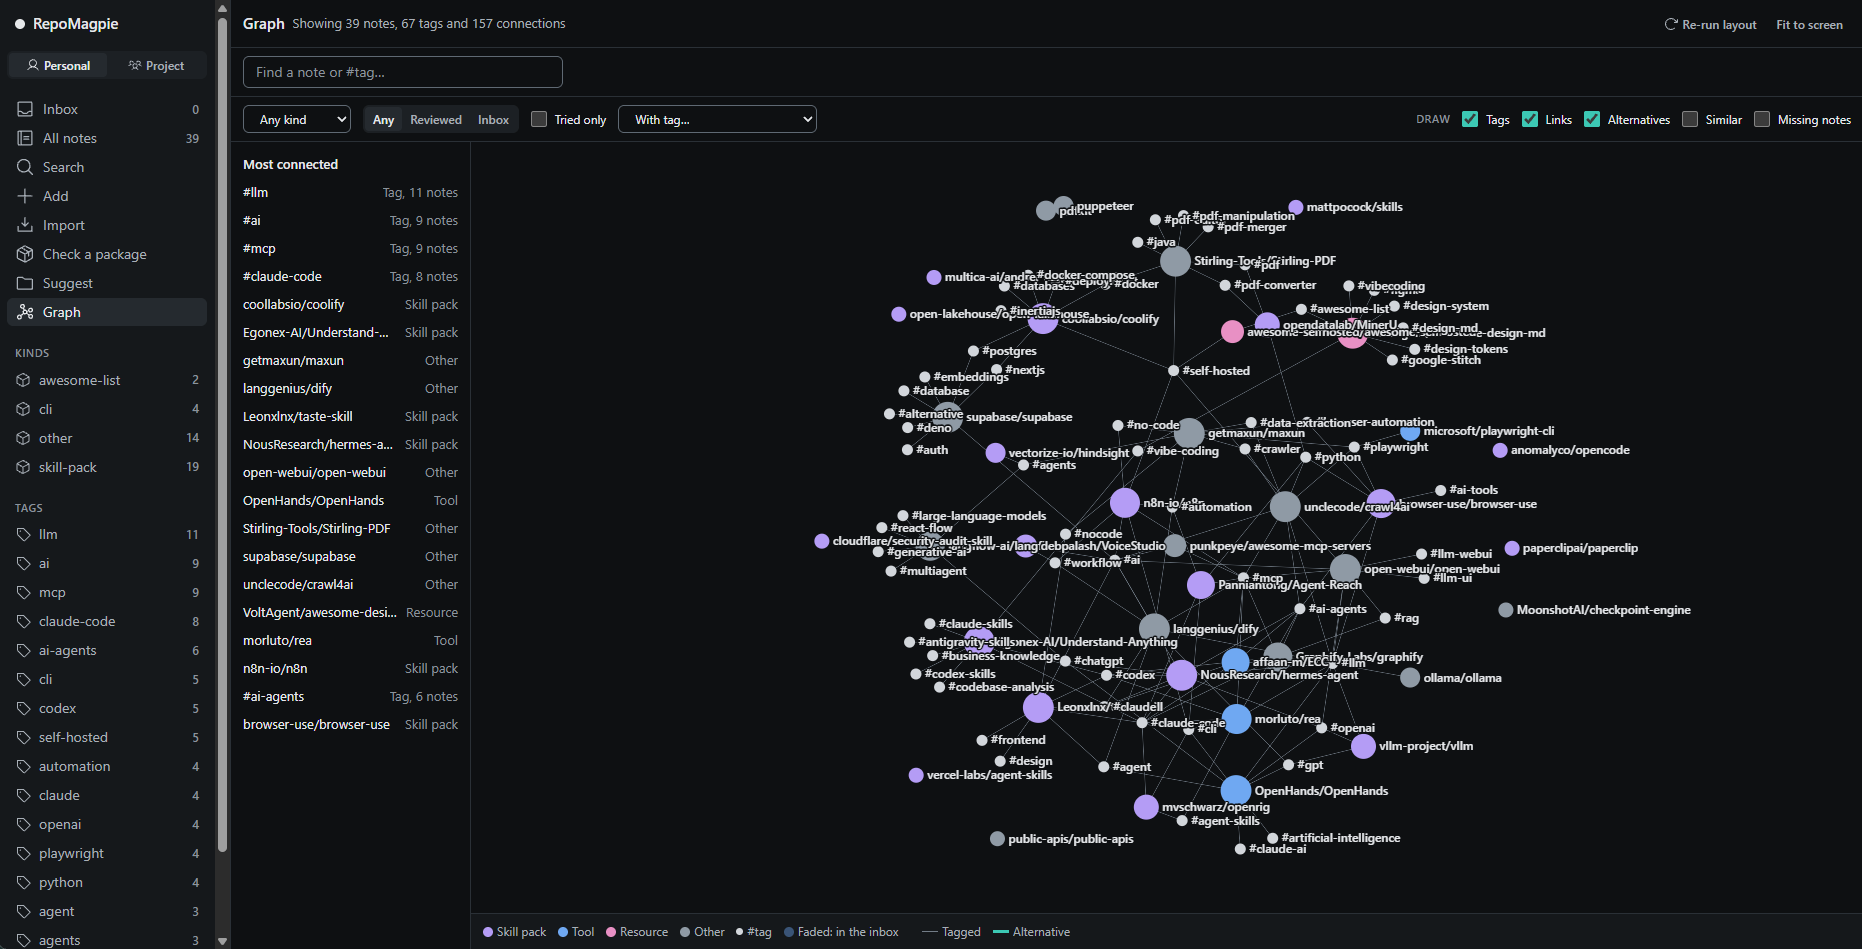
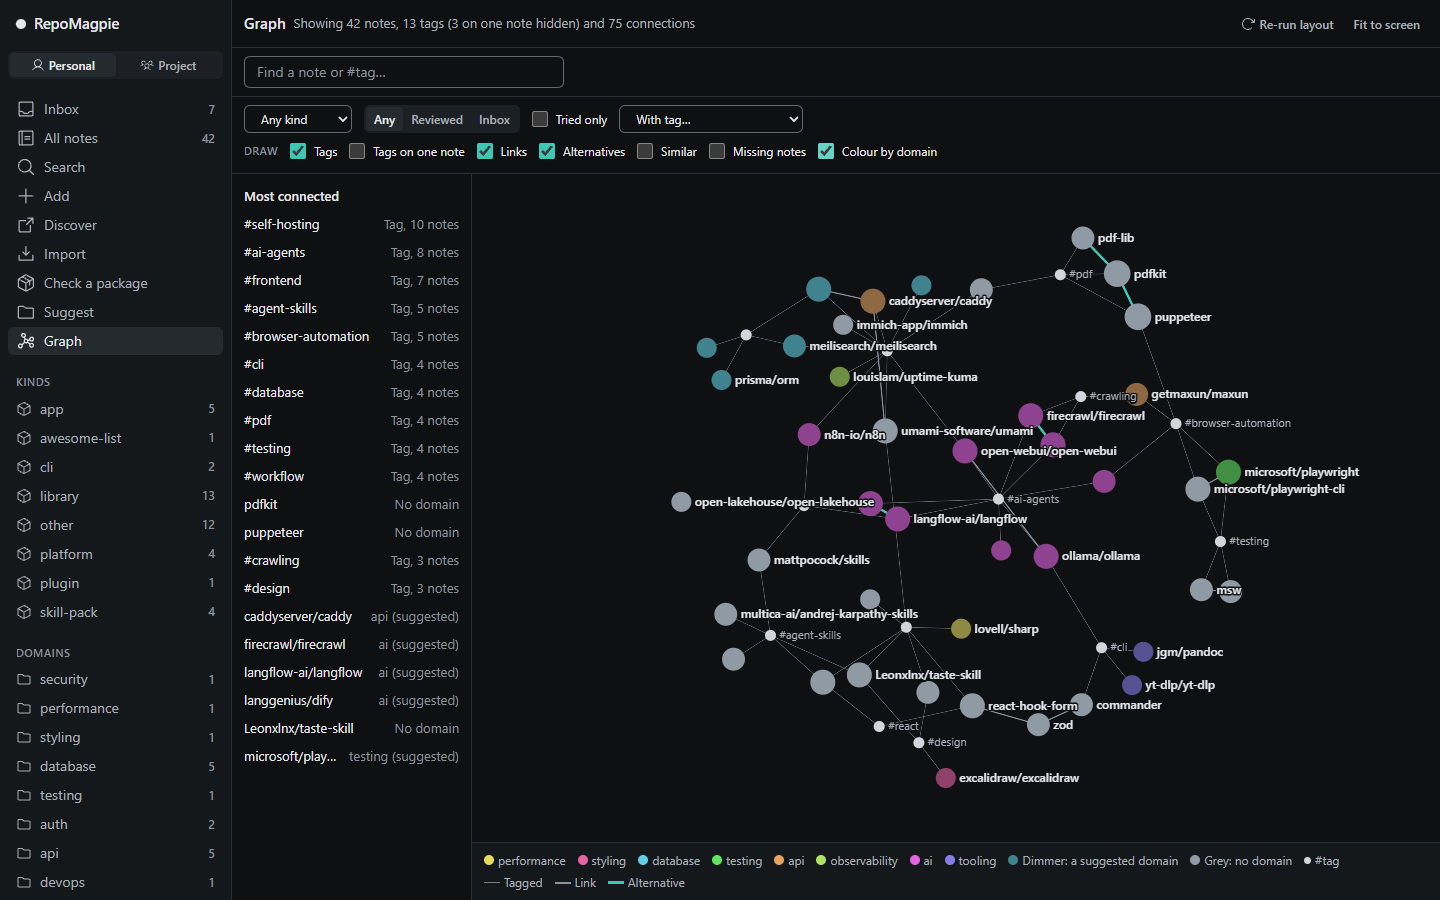
docs: a shorter README and screenshots of today's app

diff --git a/README.md b/README.md
@@ -12,7 +12,7 @@
 
 [![npm version](https://img.shields.io/npm/v/repomagpie?style=flat-square&logo=npm&color=cb3837)](https://www.npmjs.com/package/repomagpie)
 [![MCP server](https://img.shields.io/badge/MCP-server-5c4ee5?style=flat-square&logo=modelcontextprotocol&logoColor=white)](docs/spec.md#repomagpie-mcp)
-[![Node.js 22.12 or later](https://img.shields.io/badge/Node.js-22.12%2B-339933?style=flat-square&logo=nodedotjs&logoColor=white)](#platforms)
+[![Node.js 22.12 or later](https://img.shields.io/badge/Node.js-22.12%2B-339933?style=flat-square&logo=nodedotjs&logoColor=white)](#what-each-agent-gets)
 [![CI status](https://img.shields.io/github/actions/workflow/status/Varshavia/RepoMagpie/ci.yml?branch=main&style=flat-square&label=CI&logo=githubactions&logoColor=white)](https://github.com/Varshavia/RepoMagpie/actions/workflows/ci.yml?query=branch%3Amain)
 [![MIT licence](https://img.shields.io/badge/licence-MIT-f4c430?style=flat-square)](LICENSE)
 
@@ -23,7 +23,7 @@
 
 </div>
 
-Months ago you tried pdfkit and gave up on it. Today your agent is about to install it again, and RepoMagpie asks you first, with your own note:
+Months ago you tried pdfkit and gave up on it. Today your agent is about to install it again, and in Claude Code, RepoMagpie's hook asks you first, with your own note:
 
 ```text
 $ npm install pdfkit
@@ -36,27 +36,25 @@ Alternatives in your personal journal: "puppeteer" (Verdict: "default for PDF re
 Do you want to proceed?
 ```
 
-In Claude Code: RepoMagpie's hook asked first, before the install ran.
-
-- **Remember:** write a verdict in one line, `repomagpie note pdfkit "avoid: async streams painful; use puppeteer"`. Your agent also offers once, at a task's end, to save a dependency decision made in it, with your reason as the Verdict. Notes are Markdown files you own.
+- **Remember:** write a Verdict in one line, `repomagpie note pdfkit "avoid: async streams painful; use puppeteer"`. Your agent also offers, once at a task's end, to save a dependency decision with your reason. Notes are Markdown files you own.
 - **Recall before install:** when your agent runs `npm install pdfkit`, it sees your note first.
-- **Find by concern:** ask about security, database, testing… in any language; your agent maps the question onto domains and finds the notes that fit, even ones that share no word with it.
+- **Find by concern:** ask about security, databases, testing… in any language, and your agent finds the notes that fit, even ones with no word in common.
 - **Suggest:** `repomagpie suggest` reads a project's manifests and README, and lists the notes that fit it.
-- **Discover:** search GitHub by words, concern and kind, see stars, activity and licence, and add the ones you choose to your inbox: `repomagpie discover`, or Discover in the app.
-- **Start from a project:** `repomagpie init --auto` lists its dependencies by what your notes say (avoid, noted, no note), then asks for your Verdict on each one without a note; Enter skips, `q` stops.
+- **Discover:** search GitHub by words, concern and kind, with stars and recent activity, and add the repositories you choose to your inbox: `repomagpie discover`, or the app.
+- **Start from a project:** `repomagpie init --auto` lists a project's dependencies by what your notes say, then asks for your Verdict on each one without a note.
 
 **Status:** pre-release `0.2.0-beta.15`, for early testers. See the [changelog](CHANGELOG.md) and the [roadmap](docs/roadmap.md).
 
 ## Quick start
 
-1. Install the `repomagpie` command and set it up in your coding agents. You need Node.js 22.12 or later. `magpie` works as a short alias when no other `magpie` command is on your `PATH`. <!-- check:commands allow -->
+1. Install the `repomagpie` command and set it up in your coding agents:
 
    ```bash
    npm install -g repomagpie@beta
    repomagpie setup
    ```
 
-   `setup` finds your agents by their command or app (an agent whose folder is all that's left is listed, not chosen), shows what it will change in which file, asks first, and backs up every file it edits; `repomagpie setup --dry-run` only shows the plan. See [agents](docs/agents.md), or [setting up by hand](docs/setup-by-hand.md). In Claude Code, `repomagpie setup --capture-reminder` also adds an opt-in reminder: when a session installed or removed a package you have no note on, the agent is reminded once to offer one.
+   `setup` shows which files it will change, asks first, and backs up each file it edits; `repomagpie setup --dry-run` only shows the plan ([agents](docs/agents.md)).
 
 2. Check what is wired in each agent:
 
@@ -64,18 +62,16 @@ In Claude Code: RepoMagpie's hook asked first, before the install ran.
    repomagpie doctor
    ```
 
-   `doctor` also lists `setup`'s backups. Each is a whole copy of its file, and copies of `~/.claude.json` can hold sign-in tokens and MCP servers' secrets. `repomagpie setup --delete-backups` deletes them after asking; `--keep-latest` keeps the newest of each file.
+   `doctor` also lists `setup`'s backups, which can hold your agents' secrets ([SECURITY.md](SECURITY.md#what-repomagpie-reads-writes-and-sends)); `repomagpie setup --delete-backups` deletes them.
 
-3. Write your first note. Give a package name, or a GitHub URL to also fetch the repository's licence, topics and agent skills:
+3. Write your first note. A GitHub URL also fetches the repository's licence, topics and agent skills, and `--use-when` lets you find the note later by what you need:
 
    ```bash
    repomagpie note pdfkit "avoid: async streams painful; use puppeteer" --type npm
    repomagpie note https://github.com/microsoft/playwright-cli "use for agent browser tests" --use-when "an agent checks a web UI"
    ```
 
-   `--type npm` says the name is an npm package. Inside a project, RepoMagpie reads that from its manifest; elsewhere it asks. `--use-when` lets you find the note later by what you need, not only by name. For notes you already have, `repomagpie domains --suggest --dry-run` shows suggested domains (drop `--dry-run` to write them, for you to confirm), and `repomagpie tags --merge postgres postgresql` merges two spellings of a tag.
-
-   Without a token, GitHub allows 60 requests an hour. If you use the [GitHub CLI](https://cli.github.com/), give RepoMagpie its token for the current shell to raise the limit: `export GITHUB_TOKEN=$(gh auth token)`, or in PowerShell `$env:GITHUB_TOKEN = gh auth token`.
+   GitHub allows 60 requests an hour without a token. To raise the limit: `export GITHUB_TOKEN=$(gh auth token)`, or in PowerShell `$env:GITHUB_TOKEN = gh auth token`.
 
 > [!IMPORTANT]
 > RepoMagpie comes only from [this repository](https://github.com/Varshavia/RepoMagpie), the npm package [`repomagpie`](https://www.npmjs.com/package/repomagpie) and the agent skill on [skills.sh](https://skills.sh/varshavia/repomagpie). There are no installers, no `.exe` or other downloads, no other packages and no other website: anything else that calls itself RepoMagpie is not ours ([SECURITY.md](SECURITY.md#official-channels)).
@@ -84,20 +80,20 @@ In Claude Code: RepoMagpie's hook asked first, before the install ran.
 
 ![How RepoMagpie works: your agent is about to run npm install pdfkit; the skill or the MCP tool recall checks first, and the hook checks the install command as a backstop; both read your personal journal in ~/.magpie and the project journal in .magpie/; your Verdict, "avoid: async streams painful; use puppeteer", comes back, and your agent asks you before the install.](docs/assets/how-it-works.svg)
 
-Before an install, the skill tells your agent to look the package up with the MCP server's `recall` tool, or the `repomagpie recall` command. RepoMagpie reads both journals on your machine and returns your notes; when one says to avoid the package, your agent shows it to you and asks first. The hook checks the install command itself, in case the agent skips that step.
+Before an install, the skill tells your agent to call `recall`, the MCP tool or the `repomagpie recall` command. When a note says to avoid the package, your agent shows it to you and asks first. The hook checks the install command itself, in case the agent skips that step.
 
-There is no extra model, no API key and no telemetry. RepoMagpie works through the agent you already use, so it works as well as that agent follows the skill: without a hook, that goes for the check before an install too.
+There is no extra model, no API key and no telemetry. RepoMagpie works as well as your agent follows the skill; without a hook, that includes the check before an install.
 
 ## Ask your agent
 
-- **What do I have for browser testing?** Your agent searches your journals and answers with the notes it finds, Verdict first; on a small journal it can read every note in one list.
-- **How should database security work in this project?** Your agent answers with your notes in the security and database domains that fit the project's technologies, saying why each one fits.
-- **Install pdfkit.** Your agent recalls pdfkit before the install. Your avoid note comes back with its alternatives, and your agent asks you before it installs anything.
-- **Which of my tools fit this project?** `suggest` reads the project's manifests and README and returns the notes that match; your agent picks the ones that fit, says why, and names any dependency in use that you noted to avoid.
+- **What do I have for browser testing?** Your agent searches your journals and answers with the notes it finds, Verdict first.
+- **How should database security work in this project?** Your agent answers with your notes in the security and database domains that fit the project, and says why.
+- **Install pdfkit.** Your agent recalls it first, shows your avoid note with its alternatives, and asks you before it installs anything.
+- **Which of my tools fit this project?** `suggest` reads the project's manifests and README; your agent picks the notes that fit and names any dependency in use that you noted to avoid.
 
 ## What each agent gets
 
-What `repomagpie setup` sets up in each agent ([agents](docs/agents.md)):
+What `repomagpie setup` sets up in each agent, on Linux, Windows or macOS with Node.js 22.12 or later ([agents](docs/agents.md)):
 
 | Agent | MCP | Skill | Hook | When a note says to avoid a package |
 |---|---|---|---|---|
@@ -109,26 +105,24 @@ What `repomagpie setup` sets up in each agent ([agents](docs/agents.md)):
 | Antigravity CLI | yes | yes | yes | the hook asks you |
 | Copilot CLI | yes | yes | yes | the hook stops the first try; your agent asks you |
 
-Codex CLI runs a new hook only after you trust it in `/hooks`.
+Codex CLI runs a new hook only after you trust it in `/hooks`. Other agents with MCP or [Agent Skills](https://agentskills.io) can use the server or the skill: see [setting up by hand](docs/setup-by-hand.md). The package has no runtime dependencies, and paths with letters outside ASCII work.
 
 ## Share notes with your team
 
-A project journal is a `.magpie/` folder in the repository. Its notes are committed with the code, and RepoMagpie's hook and `recall` read them for every contributor, next to each person's own journal.
+A project journal is a `.magpie/` folder in the repository, committed with the code. RepoMagpie's hook and `recall` read it for every contributor, next to each person's own journal.
 
 ```sh
 repomagpie note pdfkit "avoid: async streams painful; use puppeteer" --to project
 git add .magpie && git commit -m "Add our note on pdfkit"
 ```
 
-Or copy one of your own notes there: `repomagpie adopt pdfkit`. When a teammate's agent is about to run `npm install pdfkit`, the hook finds the project's note and asks them first. Their `search` and `suggest` find it too.
-
-A project journal is as visible as its repository: anyone who can read the repository can read its notes ([decision 0013](docs/decisions/0013-two-journal-scopes.md)).
+Or copy one of your own notes there: `repomagpie adopt pdfkit`. When a teammate's agent is about to run `npm install pdfkit`, the hook asks them first, and their `search` and `suggest` find the note too. Anyone who can read the repository can read its notes.
 
 ## The local app
 
-`repomagpie ui` opens your journals in the browser. Review an inbox note: write the Verdict, set kind, tags and rating, and press Ctrl+Enter.
+`repomagpie ui` opens your journals in the browser. Review an inbox note: write the Verdict, set kind, domains, tags and rating, and press Ctrl+Enter.
 
-![The inbox review in repomagpie ui: a GitHub repository's description and Use when drafts above the Verdict being typed, with tags to pick below](docs/assets/screen-inbox-review.png)
+![The inbox review in repomagpie ui: the Verdict being typed for Understand-Anything, with ai and tooling outlined as suggested domains, and tags to pick below](docs/assets/screen-inbox-review.png)
 
 Check a package: what your journals say before an install, and what the hook does in each agent.
 
@@ -136,11 +130,11 @@ Check a package: what your journals say before an install, and what the hook doe
 
 Suggest for this project: the notes that fit, and why each one is a candidate.
 
-![Suggest in repomagpie ui: microsoft/playwright first, matched on the @playwright/test dependency; pdfkit listed apart as in use with an avoid note, with pdf-lib and puppeteer instead](docs/assets/screen-suggest.png)
+![Suggest in repomagpie ui: microsoft/playwright first, matched on the @playwright/test dependency; pdfkit listed last as in use with an avoid note, with pdf-lib and puppeteer instead](docs/assets/screen-suggest.png)
 
-See a journal as a graph: notes, their tags, `[[links]]` and alternatives, coloured by domain if you choose. Labels never overlap, and a tag on only one note stays hidden until you turn it on. Click a note to read and edit it beside the graph.
+See a journal as a graph: notes, their tags, `[[links]]` and alternatives, coloured by domain if you choose. Click a note to read and edit it beside the graph.
 
-![The graph page in repomagpie ui on the maintainer's own journal: 39 notes, 67 tags and 157 connections, with the most connected tags and notes, such as #llm, #ai, #mcp and #claude-code, listed beside the graph](docs/assets/screen-graph.png)
+![The graph page in repomagpie ui, coloured by domain: 42 notes, 13 tags and 75 connections; the most connected, such as #self-hosting, #ai-agents and #frontend, listed beside it](docs/assets/screen-graph.png)
 
 ## How it compares
 
@@ -150,72 +144,51 @@ See a journal as a graph: notes, their tags, `[[links]]` and alternatives, colou
 | Supply-chain scanners, such as [Socket Firewall Free](https://github.com/SocketDev/sfw-free) | Malware, vulnerabilities and popularity, from global data | Before an install |
 | RepoMagpie | Your verdicts and your team's | Before an install, when you search, and when you start a project |
 
-A line like "avoid pdfkit" in `CLAUDE.md` covers one project. A RepoMagpie note works across projects, shows up in search, and the hook checks it on every install.
-
-## Platforms
-
-- Node.js 22.12 or later; the package has no runtime dependencies (the MCP server's libraries are bundled in it). CI runs on Linux, Windows and macOS, with Node 22, 24 and 26.
-- On Windows, Codex CLI, Copilot CLI, Gemini CLI and Cursor start the hook through Windows PowerShell, which adds about 350 ms each time; Antigravity CLI's `cmd` adds about 90 ms. Copilot CLI runs the hook before every tool call, the others before each shell command.
-- Paths with letters outside ASCII, such as a home folder named `C:\Users\Şuat`, are supported.
+A line like "avoid pdfkit" in `CLAUDE.md` covers one project. A RepoMagpie note works across projects, shows up in search, and the hook checks it on every install. RepoMagpie isn't a scanner: it never claims to detect malware or vulnerabilities, so run one next to it ([vision](docs/vision.md#non-goals)).
 
 ## FAQ
 
 <details>
 <summary><strong>Does RepoMagpie send my notes anywhere?</strong></summary>
 
-No. Your personal journal is a folder of Markdown files on your machine, a project journal is as visible as its repository, and there is no telemetry. The only network requests go to GitHub's API. When you give `repomagpie note`, `repomagpie import` or the app's Add page a GitHub repository, they read its metadata, file list, root manifests and README. When you search with `repomagpie discover` or the app's Discover page, it sends your search words and filters, nothing else. Both send `GITHUB_TOKEN` if you set it, never anything from your journals. `repomagpie ui` listens on `127.0.0.1` only, and `repomagpie mcp` never opens a network connection or a port: it talks to your agent over stdio. Your agent sees the notes it reads, and its model provider gets them as part of the conversation. See [SECURITY.md](SECURITY.md#what-repomagpie-reads-writes-and-sends).
+No. Your journals are Markdown files on your machine, and there is no telemetry. The only network requests are read-only calls to GitHub's API, when you add a note from a GitHub repository or search with `discover`: they send that repository's name or your search, and `GITHUB_TOKEN` if you set it, never your notes. `repomagpie ui` listens on `127.0.0.1` only. Your agent's model provider sees the notes your agent reads. See [SECURITY.md](SECURITY.md#what-repomagpie-reads-writes-and-sends).
 
 </details>
 
 <details>
 <summary><strong>Does RepoMagpie use AI?</strong></summary>
 
-Not a model of its own. RepoMagpie's commands match package names and words, and call no model. The AI is the coding agent you already use: through the skill and the MCP tools, it recalls your notes before an install, searches them when you ask what you have, and offers once, at the end of a task, to save a dependency decision. The skill tells it never to write your Verdict for you (only your words, or nothing), never to delete a note unless you ask for that note by name, and never to install a package you noted to avoid without asking you; where your agent has a hook, the hook checks that last one too.
+Not a model of its own: its commands match names and words, and call no model. The AI is the coding agent you already use, which reads and saves your notes through the skill and the MCP tools. The skill tells it never to write your Verdict for you, never to delete a note you didn't name, and never to install a package you noted to avoid without asking you; a hook checks that last one too.
 
 </details>
 
 <details>
 <summary><strong>Does the hook block installs?</strong></summary>
 
-Never for good, and it never approves one. When a note says to avoid the package, the hook asks you in Claude Code, Gemini CLI and Antigravity CLI; in Codex CLI, Cursor and Copilot CLI it stops the first try, your agent asks you, and the same install then goes through for 10 minutes. A note that doesn't say to avoid the package never stops an install, and neither does an error in RepoMagpie: the hook then does nothing. See the [hook contract](docs/spec.md#6-hook-contract) and [decision 0036](docs/decisions/0036-hooks-in-other-agents.md).
-
-</details>
-
-<details>
-<summary><strong>Is it a security scanner?</strong></summary>
-
-No. RepoMagpie shows what you and your team wrote down: it never claims to detect malware or vulnerabilities, and it never installs anything. Run a scanner such as [Socket Firewall Free](https://github.com/SocketDev/sfw-free) next to it ([vision](docs/vision.md#non-goals), [competitors](docs/competitors.md)).
-
-</details>
-
-<details>
-<summary><strong>Which agents does it work with?</strong></summary>
-
-`repomagpie setup` sets up the seven in [What each agent gets](#what-each-agent-gets). Other agents with MCP can use the MCP server, and agents with [Agent Skills](https://agentskills.io) the skill: [setting up by hand](docs/setup-by-hand.md) has the entries to write, and [agents](docs/agents.md) what each agent supports.
+Never for good, and it never approves one. When a note says to avoid the package, the hook asks you, or stops the first try so that your agent asks you ([the table](#what-each-agent-gets)); after a stop, the same install goes through for 10 minutes. Any other note, or an error in RepoMagpie, never stops an install. See the [hook contract](docs/spec.md#6-hook-contract).
 
 </details>
 
 <details>
 <summary><strong>How do I remove it?</strong></summary>
 
-Run `repomagpie setup --remove`. It takes out only RepoMagpie's own MCP entries, hooks and skill folders, and never restores a backup over your later changes. It leaves your journals (`~/.magpie` and any project's `.magpie/`) and `setup`'s backups: run `repomagpie setup --delete-backups` to delete the backups after asking, then `npm uninstall -g repomagpie`. Antigravity CLI can keep listing a removed entry until you clear `~/.gemini/antigravity-cli/mcp/` ([agents](docs/agents.md#antigravity-cli)).
+Run `repomagpie setup --remove`. It takes out only RepoMagpie's own MCP entries, hooks and skill folders, never restores a backup over your later changes, and leaves your journals and `setup`'s backups. Then `repomagpie setup --delete-backups` deletes the backups after asking, and `npm uninstall -g repomagpie` removes the command.
 
 </details>
 
 <details>
 <summary><strong>Where are my notes, and can I edit them by hand?</strong></summary>
 
-Each note is one Markdown file with YAML frontmatter: in `~/.magpie/notes/` for your personal journal, and in `.magpie/notes/` for a project's ([note schema](docs/note-schema.md)). Edit them in any editor: RepoMagpie reads hand-written notes even with fields or sections missing, and never rewrites your sections. `repomagpie ui` edits the same files in the browser. To keep the personal journal elsewhere, set `MAGPIE_HOME` or pass `--home`. `repomagpie delete <name>`, or Delete in the app, moves a note to the journal's `.trash/`.
+Each note is one Markdown file with YAML frontmatter, in `~/.magpie/notes/` or a project's `.magpie/notes/` ([note schema](docs/note-schema.md)). Edit them in any editor: RepoMagpie reads hand-written notes even with fields or sections missing, and never rewrites your sections. Set `MAGPIE_HOME` or pass `--home` to keep your journal elsewhere. `repomagpie delete` moves a note to the journal's `.trash/`.
 
 </details>
 
 ## Documentation
 
-- [Spec](docs/spec.md): every command (`search`, `recall`, `catalog`, `discover`, `adopt`, `import`, `delete` and the rest; `repomagpie --help` lists them), flag and `--json` document
+- [Spec](docs/spec.md): every command, flag and `--json` document (`repomagpie --help` lists the commands)
 - [Agents](docs/agents.md): what each coding agent supports, and [setting up by hand](docs/setup-by-hand.md)
 - [Note schema](docs/note-schema.md): the format of a note
 - [The local app](docs/ui.md): screens, API and security rules
-- [Roadmap](docs/roadmap.md) and [changelog](CHANGELOG.md)
 - [Testing the beta](TESTING.md): the steps for a week with the beta, and how to send feedback
 - [Vision](docs/vision.md), [competitors](docs/competitors.md) and [decisions](docs/decisions/)
 
